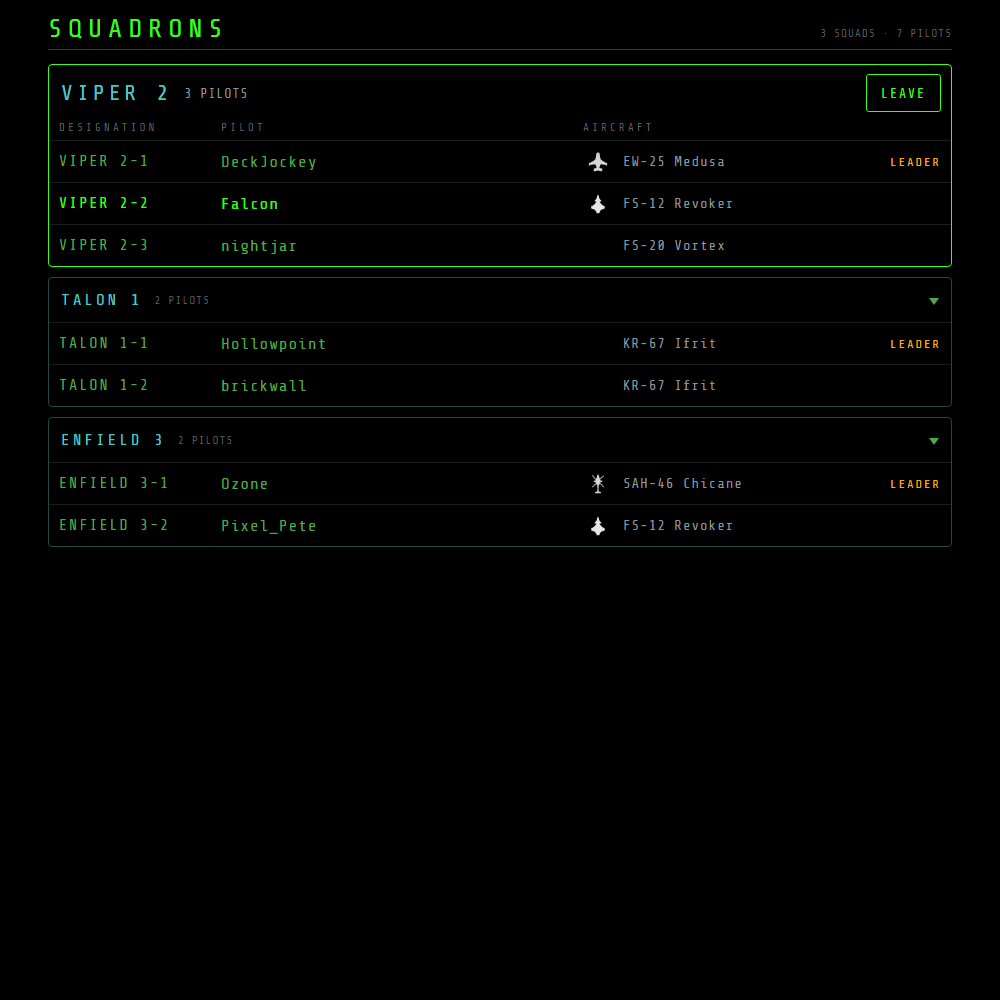
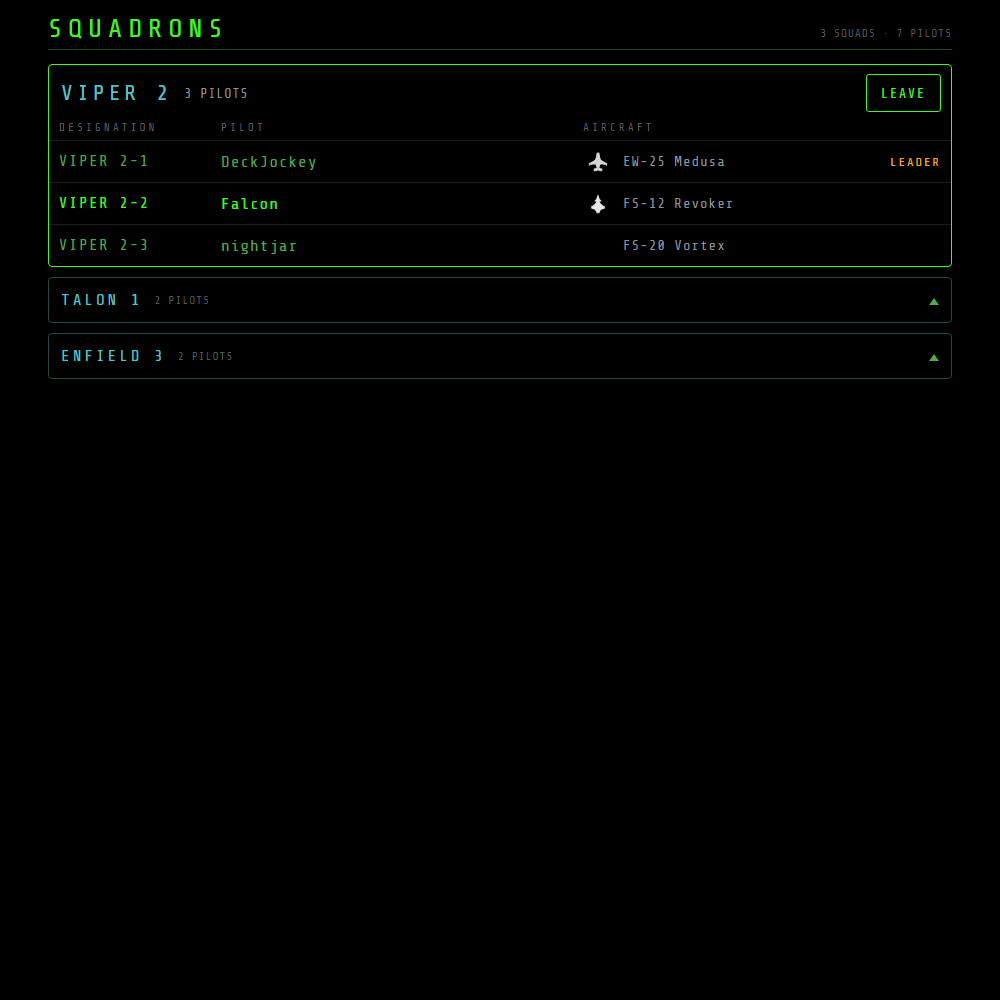
SQD: other squads start collapsed; folds and the unassigned bar are kept for the browser session (issue 106)
The pilot's own squad stays always open. Fold state lives in sessionStorage (noxmfd.sqd.fold: opened squads by leader id, plus the unassigned bar once toggled; until then it follows the role default). Manual, plan and screenshots updated for the collapsed default.

diff --git a/src/web/pages/sqd/sqd.js b/src/web/pages/sqd/sqd.js
@@ -276,17 +276,32 @@ function renderInviteCards(invites) {
   });
 }
 
+// Which containers the pilot has opened or closed, kept for the browser session (sessionStorage,
+// shared by every SQD frame of this tab) so a reload or a page switch doesn't undo it. `squads`
+// holds the leader ids of the other squads the pilot opened — they start collapsed; `roster` is the
+// unassigned list's state once the pilot has toggled it, null until then.
+const FOLD_STORE_KEY = 'noxmfd.sqd.fold';
+const fold = { squads: {}, roster: null };
+try {
+  const saved = JSON.parse(sessionStorage.getItem(FOLD_STORE_KEY) || 'null');
+  if (saved && saved.squads && typeof saved.squads === 'object') fold.squads = saved.squads;
+  if (saved && typeof saved.roster === 'boolean') fold.roster = saved.roster;
+} catch (_) {}
+function saveFold() {
+  try { sessionStorage.setItem(FOLD_STORE_KEY, JSON.stringify(fold)); } catch (_) {}
+}
+
 // The player list (not shown to a plain member): in-match players who aren't in any squad, plus the players we've invited and are
-// awaiting (tagged INVITED, no button — Squad.cs has no way to withdraw an invite). Expanded by
-// default only while not in a squad; the default is re-applied whenever the role changes (creating
-// or joining a squad collapses it, leaving expands it), and a manual toggle holds until then.
+// awaiting (tagged INVITED, no button — Squad.cs has no way to withdraw an invite). Until the pilot
+// toggles it, it follows the role: open while not in a squad, collapsed once in one. A toggle holds
+// for the rest of the browser session.
 let rosterOpen = true;
 let rosterRole = null;
 function applyRosterOpen() {
   rosterSection.classList.toggle('sqd-collapsed', !rosterOpen);
   rosterHead.setAttribute('aria-expanded', rosterOpen ? 'true' : 'false');
 }
-function toggleRoster() { rosterOpen = !rosterOpen; applyRosterOpen(); }
+function toggleRoster() { rosterOpen = !rosterOpen; fold.roster = rosterOpen; saveFold(); applyRosterOpen(); }
 rosterHead.addEventListener('click', toggleRoster);
 rosterHead.addEventListener('keydown', function (e) {
   if (e.key === 'Enter' || e.key === ' ') { e.preventDefault(); toggleRoster(); }
@@ -296,7 +311,11 @@ rosterHead.addEventListener('keydown', function (e) {
 // state-only update (e.g. a member's aircraft changing) would rebuild the rows for nothing.
 let lastRosterSig = null;
 function renderRoster(showInvite) {
-  if (state.role !== rosterRole) { rosterRole = state.role; rosterOpen = state.role === 'none'; applyRosterOpen(); }
+  if (state.role !== rosterRole) {
+    rosterRole = state.role;
+    rosterOpen = fold.roster !== null ? fold.roster : state.role === 'none';
+    applyRosterOpen();
+  }
 
   // Everyone already in a squad, ours or another (a leader's state.members never includes
   // themselves, and /server-players never lists self).
@@ -499,8 +518,9 @@ function renderSquad() {
 }
 
 // Every other squad in the faction (state.faction.squads), read-only: a collapsible container per
-// squad, folded per page load by its leader's id. Memoized by content like the rows above.
-const folded = {};
+// squad, collapsed until the pilot opens it (fold.squads, by leader id). Memoized by content like the
+// rows above.
+function isOpen(leader) { return !!fold.squads[leader]; }
 let lastOthersSig = null;
 function textSpan(cls, text) {
   const el = document.createElement('span');
@@ -511,7 +531,7 @@ function textSpan(cls, text) {
 function renderOthers() {
   const squads = factionSquads();
   const sig = iconStatusVersion + '|' + squads.map(function (sq) {
-    return sq.leader + ':' + sq.callsign + ':' + sq.flight + ':' + sq.dup + ':' + (folded[sq.leader] ? 1 : 0) + ':' +
+    return sq.leader + ':' + sq.callsign + ':' + sq.flight + ':' + sq.dup + ':' + (isOpen(sq.leader) ? 1 : 0) + ':' +
       sq.members.map(function (m) { return m.id + '.' + m.slot + '.' + m.name + '.' + m.aircraft; }).join(',');
   }).join(';');
   if (sig === lastOthersSig) return;
@@ -519,19 +539,24 @@ function renderOthers() {
   othersEl.innerHTML = '';
   squads.forEach(function (sq) {
     const box = document.createElement('div');
-    box.className = 'sqd-squad' + (folded[sq.leader] ? ' sqd-collapsed' : '');
+    box.className = 'sqd-squad' + (isOpen(sq.leader) ? '' : ' sqd-collapsed');
 
     const head = document.createElement('button');
     head.type = 'button';
     head.className = 'sqd-squad-head pad-hoverable';
-    head.setAttribute('aria-expanded', folded[sq.leader] ? 'false' : 'true');
+    head.setAttribute('aria-expanded', isOpen(sq.leader) ? 'true' : 'false');
     const n = sq.members.length;
     head.appendChild(textSpan('sqd-squad-title', sq.callsign + ' ' + sq.flight));
     head.appendChild(textSpan('sqd-note', n + (n === 1 ? ' PILOT' : ' PILOTS')));
     if (sq.dup) head.appendChild(textSpan('sqd-dup', 'SAME DESIGNATION'));
     head.appendChild(textSpan('sqd-spacer', ''));
     head.appendChild(textSpan('sqd-chevron', ''));
-    head.onclick = function () { folded[sq.leader] = !folded[sq.leader]; lastOthersSig = null; renderOthers(); };
+    head.onclick = function () {
+      if (isOpen(sq.leader)) delete fold.squads[sq.leader]; else fold.squads[sq.leader] = true;
+      saveFold();
+      lastOthersSig = null;
+      renderOthers();
+    };
 
     const rows = document.createElement('div');
     rows.className = 'sqd-rows';

diff --git a/man/sqd.md b/man/sqd.md
@@ -36,9 +36,13 @@ Top to bottom:
 2. **CREATE SQUAD** — only while you're not in a squad.
 3. **Invites** you haven't answered — only while you're not in a squad.
 4. **Your squad**, in a green box that always stays open.
-5. **Every other squad** in your faction, each in a teal box. Click a box's header to fold or
-   unfold it.
-6. **UNASSIGNED PLAYERS**, docked at the bottom — not shown to squad members.
+5. **Every other squad** in your faction, each in a teal box, collapsed. Click a box's header to
+   open or close it.
+6. **UNASSIGNED PLAYERS**, docked at the bottom — not shown to squad members. It starts open while
+   you're not in a squad and collapsed once you are.
+
+The page remembers which boxes you opened or closed, and the unassigned bar, for the rest of the
+browser session.
 
 An amber banner above the list reports anything that happened without you pressing a button,
 such as a lost squadmate (see [Notices](#notices)).
@@ -131,8 +135,9 @@ minutes, so restarting a mission doesn't break the squad.
 
 ## Other squads
 
-Every other squad in your faction is listed below your own, read-only, with each pilot's
-designation, Steam name and aircraft. You see them whether you're in a squad or not, so anyone
+Every other squad in your faction is listed below your own, read-only. Each box starts collapsed
+with the squad's callsign, flight and pilot count; open it to see each pilot's designation, Steam
+name and aircraft. You see them whether you're in a squad or not, so anyone
 coordinating several squads, such as an ATC controller, can read every callsign from one page.
 
 The UNASSIGNED PLAYERS bar lists the faction's NOXMFD pilots who aren't in any squad.

diff --git a/docs/faction-broadcast.md b/docs/faction-broadcast.md
@@ -126,7 +126,8 @@ Mockups: `docs/images/sqd-d1-leader.png`, `sqd-d2-member.png`, `sqd-d3-invited.p
 - Amber labels have no border; buttons do.
 - Unassigned players stay docked at the bottom (open with no squad, collapsed when leading,
   hidden for a plain member).
-- Collapse state is per page load, keyed by leader id.
+- Other squads start collapsed. What the pilot opens or closes (other squads by leader id, and the
+  unassigned list once toggled) is kept in `sessionStorage` for the browser session.
 - The page's narrow-width layout (two-line rows below 640 px) carries over to every squad.
 
 ### 7. `serve_web.py` mock
